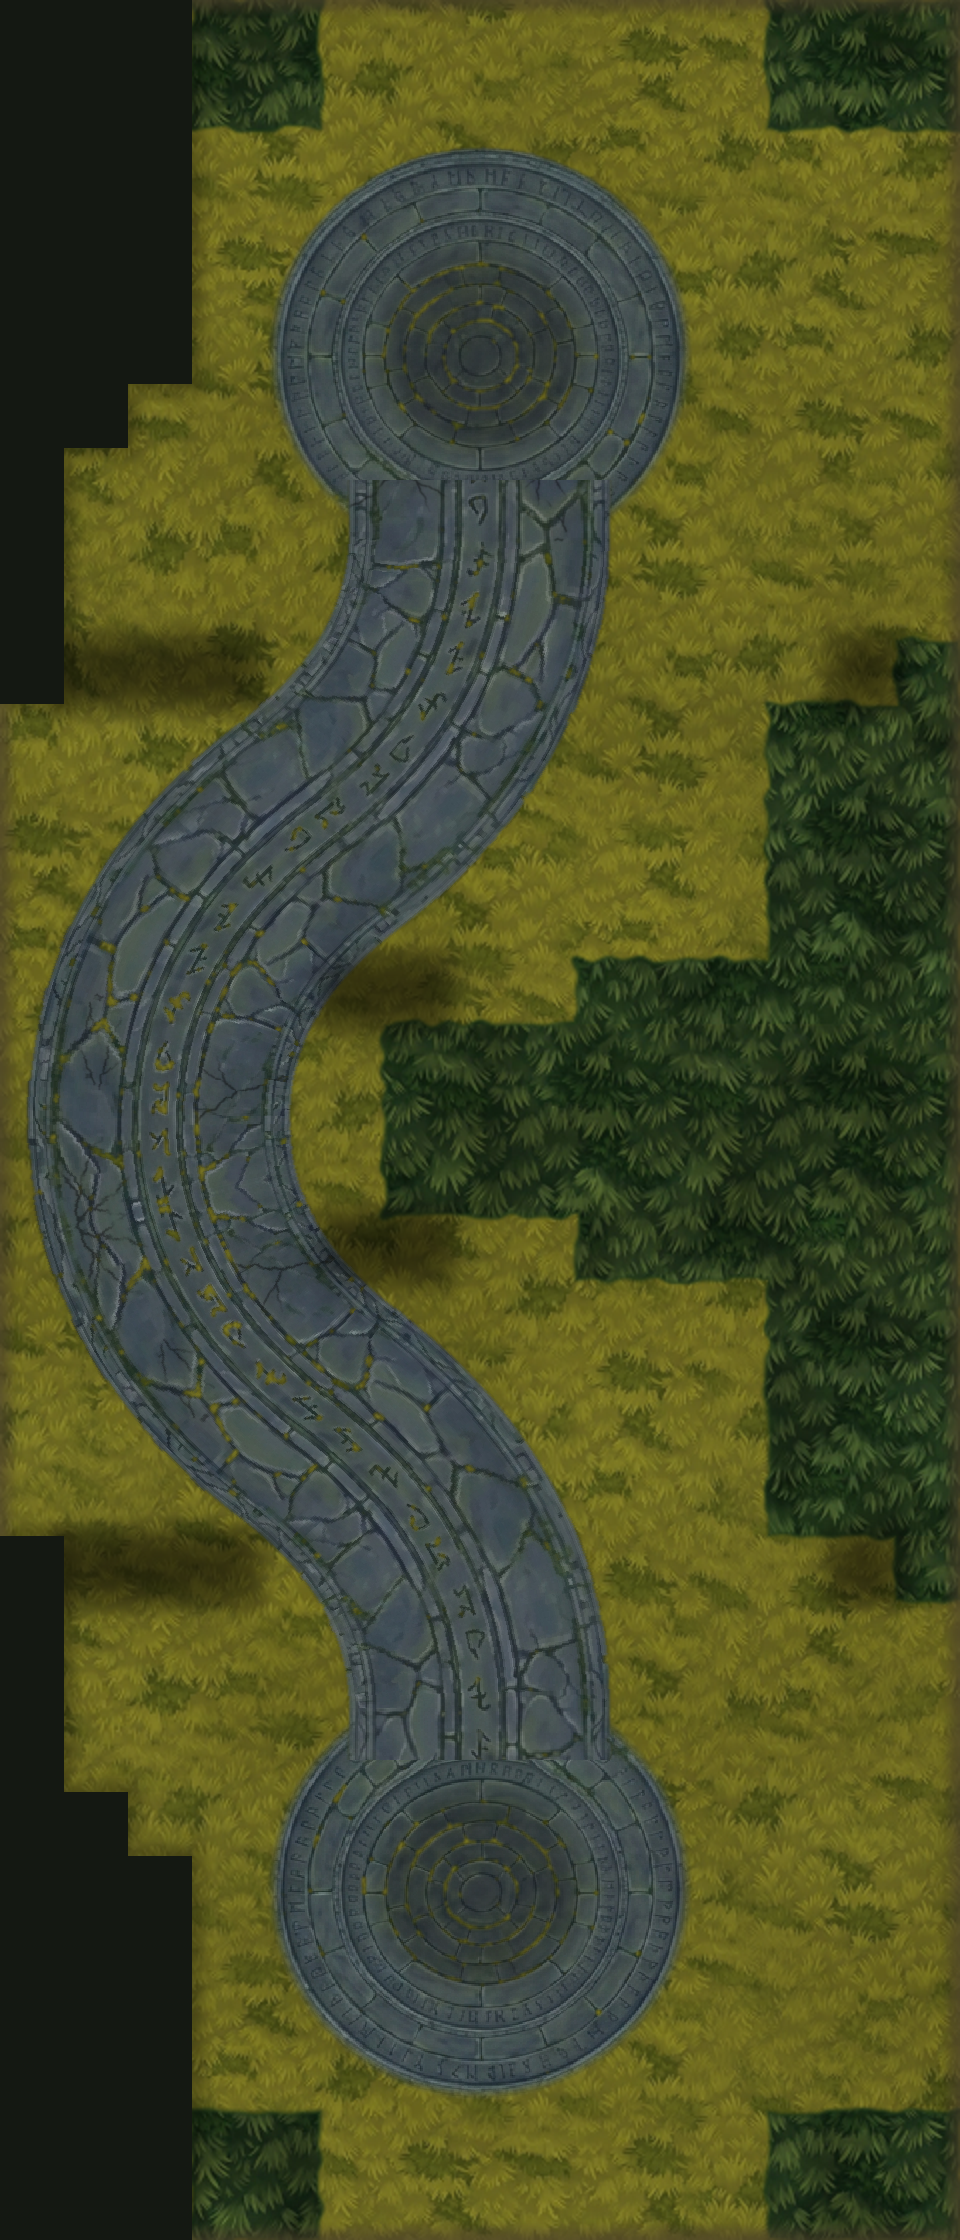
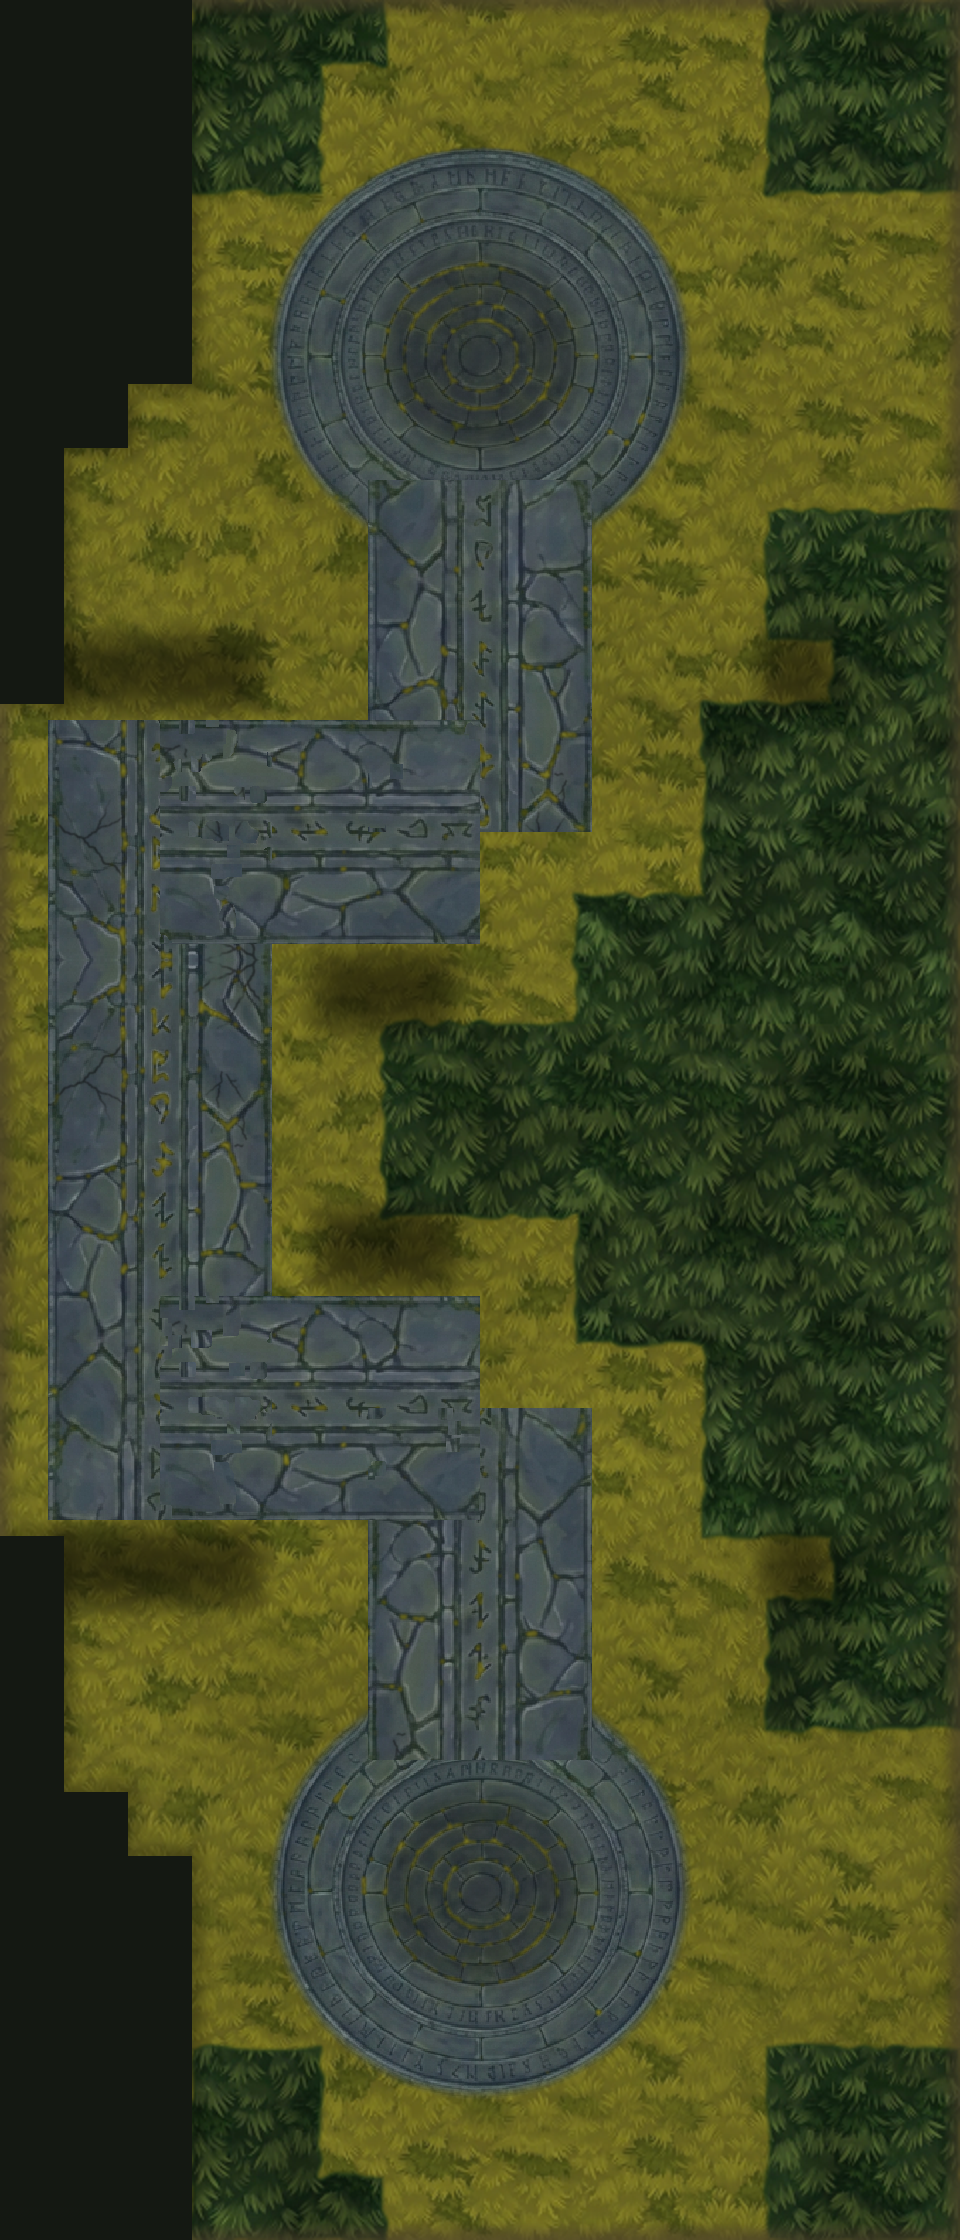
Plateau v2: rak vinklad väg och mer gräs
Rickard 18 nov: "inte snyggt med den rundade vägen. gör mer som originalet" och "mer gräs som i originalet".
- Vägen på marken går i raka bitar på rutnätet (upp mitten, rakt åt vänster, upp vänsterkanten, rakt tillbaka),
  smalare (1,75 rutor åt varje håll); lanens waypoints följer samma hörn (y 22 och 13)
- Mer gräs: gräshörnen vid basen tre rader djupa, högerremsan börjar rad 8 (utanför tornets 4,8) och är fyra
  rutor bred rad 11-13, fältet når upp till remsan på rad 14 (ca 26 % gräs mot 18 %)
- Botlab Platinum 1500: snitt 5:30, median 4:51, 7 timeouts; tester 927/927

Claude-Session: https://claude.ai/code/session_01M7eBmsdbX5dujjbvcNASSn

diff --git a/Assets/BAM/Sim/Arena.cs b/Assets/BAM/Sim/Arena.cs
@@ -77,33 +77,34 @@ namespace BAM.Sim
         // The third map, Plateau (Rickard 2026-11-18: "bygg the plateau från abc2"): BAM's own layout after the IDEAS of ABC2's
         // The Plateau, not a copy of it (its tiles, size and art are not used): the arena stands on a plateau whose corner beside
         // each base falls away into a stepped cliff (v = void: nobody walks there, shots fly over it), the lane does not run
-        // straight but swings round the LEFT of a big grass field in the middle (LaneX/LaneY below), a grass strip runs down the
+        // straight but goes in right-angled pieces round the LEFT of a big grass field in the middle (LaneX/LaneY below), a grass strip runs down the
         // right edge into that field, and behind a short wall bar on the cliff side a jump pad throws you 3 rows over the bar.
         static readonly string[] PlateauTop =
         {
-            "vvvgg.......ggg", // 0  grass corners either side of the base
+            "vvvggg......ggg", // 0  grass corners either side of the base, three rows deep
             "vvvgg.000...ggg", // 1
-            "vvv............", // 2
+            "vvvgg.......ggg", // 2
             "vvv............", // 3
             "vvv....2.......", // 4
             "vvv....1.......", // 5
             "vv.............", // 6  the cliff steps down
             "v..............", // 7
-            "v..............", // 8
-            "v.J............", // 9  the pad throws you to row 12, over the wall bar; 6.4 tiles from the tower, out of its 4.8 reach
-            "v###.........#g", // 10 the wall bar on the cliff side; a stone at the head of the right grass strip
-            "............ggg", // 11
-            "............ggg", // 12
-            "............ggg", // 13
-            "............ggg", // 14
+            "v...........ggg", // 8  the right grass strip starts (Rickard 2026-11-18 "mer gräs som i originalet"), out of the tower's 4.8 reach
+            "v.J.........ggg", // 9  the pad throws you to row 12, over the wall bar; 6.4 tiles from the tower, out of its 4.8 reach
+            "v###........#gg", // 10 the wall bar on the cliff side; a stone in the right grass strip
+            "...........gggg", // 11
+            "...........gggg", // 12
+            "...........gggg", // 13
+            ".........gggggg", // 14 the grass field reaches up to the strip
             ".....##..gggggg", // 15 a short wall at the field's corner
             "......ggggggggg", // 16 the big grass field, the lane passes on its left
             "......ggggggggg", // 17 the middle row
         };
         /// <summary>Plateau: how many rows its jump pads throw you (over the short wall bar).</summary>
         public const float PlateauPadThrow = 3f;
-        // Plateau's lane from team 0's tower to team 1's: up the middle, left round the grass field, back to the middle
-        static readonly float[] PlateauLaneX = { 7.5f, 7.5f, 2.5f, 2.5f, 7.5f, 7.5f }, PlateauLaneY = { 28.5f, 23.5f, 20.5f, 14.5f, 11.5f, 6.5f };
+        // Plateau's lane from team 0's tower to team 1's in straight pieces on the grid, like the road on its ground (Rickard 2026-11-18:
+        // "inte snyggt med den rundade vägen. gör mer som originalet"): up the middle, straight across left, up the left side, back across
+        static readonly float[] PlateauLaneX = { 7.5f, 7.5f, 2.5f, 2.5f, 7.5f, 7.5f }, PlateauLaneY = { 28.5f, 22f, 22f, 13f, 13f, 6.5f };
 
         /// <summary>Which map this is (the island counts as Runes).</summary>
         public readonly MapId Id;
